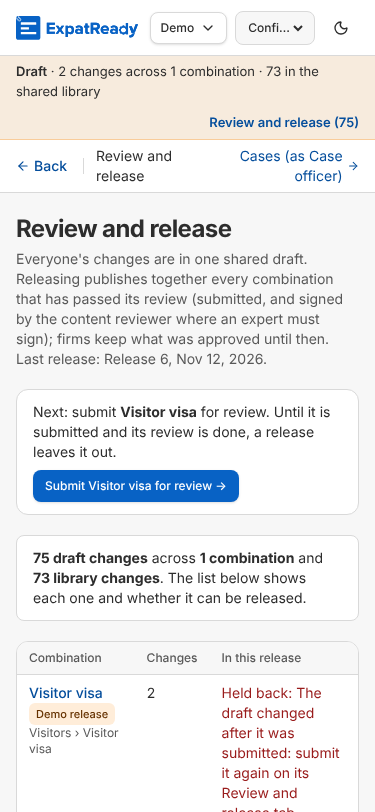
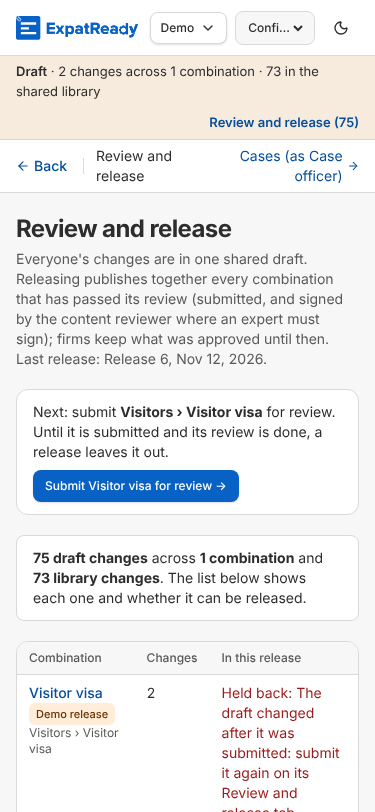
screens: QA-421 review minors — the check also walks "returned to the author" (m1); the step names the combination's full path and counts the rest "to submit" (m2); review.md (Approve at cfd11fb)
Claude-Session: https://claude.ai/code/session_01Ln6TiPiLf8JYTBgL1T2ZBd

Changed region(s): [[0.088, 0.4926, 0.88, 0.585]]

diff --git a/ai-workers/problem-1-pathway-setup-and-form-filling/prototype/studio/web/src/pages/release.tsx b/ai-workers/problem-1-pathway-setup-and-form-filling/prototype/studio/web/src/pages/release.tsx
@@ -60,7 +60,7 @@ export function ReleasePage() {
         <>
           {toSubmit.length ? (
             <div data-next-step="submit" className="flex flex-wrap items-center justify-between gap-x-4 gap-y-2 rounded-xl border border-border bg-surface-raised px-4 py-3 text-sm">
-              <p className="min-w-0">Next: submit <b>{toSubmit[0].label}</b> for review{toSubmit.length > 1 ? <> (and {toSubmit.length - 1} more not submitted)</> : null}. Until it is submitted and its review is done, a release leaves it out.</p>
+              <p className="min-w-0">Next: submit <b>{(toSubmit[0].path ?? [toSubmit[0].label]).join(" › ")}</b> for review{toSubmit.length > 1 ? <> (and {toSubmit.length - 1} more to submit)</> : null}. Until it is submitted and its review is done, a release leaves it out.</p>
               <Button asChild size="sm"><Link to={`/c/${toSubmit[0].combinationId}/review`}>Submit {toSubmit[0].label} for review →</Link></Button>
             </div>
           ) : null}

diff --git a/ai-workers/problem-1-pathway-setup-and-form-filling/product/screens/QA-421-release-submit-first/review.md b/ai-workers/problem-1-pathway-setup-and-form-filling/product/screens/QA-421-release-submit-first/review.md
@@ -1,0 +1,92 @@
+# QA-421 review: Review and release, the author's Submit comes first
+
+**Reviewer:** an independent reviewer session that did not build this row. **PR:** #1644 (draft), **commit `cfd11fb87`** on `claude/youthful-carson-0xcrp3`. **Date:** 12 Nov 2026.
+**Row:** QA-421 (A25 UX friction sweep Major, P-498; style P-473). Report: `qa/reports/2026-11-12-ux-friction-sweep.md` §1, §3 (on PR #1637's branch, `24f00c207`).
+**Diff:** `web/src/pages/release.tsx` (+21/-5), new `tests/check_qa421_release_submit_first_browser.cjs`, `tests/check_bk4b_handoffs_browser.cjs` (its opening step and the "nothing ready" loop), and 4 screenshots. Nothing outside the release page and its checks.
+**How I checked:** my own isolated copy `screens_qa421rv` on **:4476**, started and stopped in the same command each time (3 runs, fresh database each). I never used :4400 or :4473. Live AI was off: US$0, and I pressed no priced button. I wrote two walk scripts of my own in the session scratchpad (Playwright and axe, 1440, 1024, 512 (1024 at 200 %), and 375 px, as `user-A`, `user-C` and `user-B`).
+
+## Verdict: Approve (no open Blocker or Major). Journey score 9 / 10 (pass).
+
+## What the row asks, and what I saw
+* **Bug fixed.** On the configured checkpoint with one unsubmitted change on the Visitor visa, the author (`user-A`) now sees "Next: submit **Visitor visa** for review. Until it is submitted and its review is done, a release leaves it out." and a filled **"Submit Visitor visa for review →"** link to `/c/<id>/review`. There is no "Hand to the Approver" (shot `1-author-not-submitted-1440.png`). Pressing Enter on the link opens that combination's Review and release tab, and its "Submit for review" works. Back on /release, the Submit step is gone and the hand-off to the Approver (`data-handoff-to="user-B"`) is back (shot 3).
+* **Edge cases I walked:**
+  - **Two unsubmitted (Visitor visa, Outside Canada):** the step names the first and adds "(and 1 more not submitted)". After the first is submitted through the step, the step moves to "Submit Outside Canada for review →". The hand-off stays hidden until both are submitted.
+  - **Returned to the author** (the Content reviewer returned it through the UI with a note): why = "Returned to the author: …submit it again…". The Submit step shows, and the tab's "Submit for review" is enabled.
+  - **Changed after it was submitted:** the Submit step shows again (the builder's step 4, 375 px).
+  - **Author with nothing pending** (as loaded, and after both were submitted): no step; the hand-off shows.
+  - **Content reviewer (`user-C`, no author duty):** no Submit step; the hand-off names the Approver.
+  - **Approver (`user-B`):** no step, no hand-off. "Release 73 library changes as Release 7" is the one filled button, at 1440 and at 375 px.
+  - **Nothing ready to release:** BK-4b's loop now asserts the author's Submit step and the reviewer's absence of it (45/45).
+  - **Row held back for a draft problem** (fixture in my own copy's database, as `check_b1_release_unmapped.ts` does: IMM 5475's field map removed, then the form added): why = "No form fields mapped yet…". **No Submit step, which is correct:** the server refuses Submit while the draft has errors (`studio.ts:1056-1057`), and the gate's words are not on that row. See m3 for the hand-off shown in that state.
+* **One filled button (P-473), measured:** exactly one enabled `bg-primary` control in every state above (the Submit link for the author, Release for the Approver, none for the Content reviewer). For a person without the approve duty, the disabled Release button is now `secondary`.
+* **axe (WCAG 2.2 A/AA) on `main`:** 0 violations in all 11 states. **No sideways scroll** at 375, 512 (1024 at 200 %), 1024 or 1440 px. The keyboard reaches the Submit link after the shell's 19 stops (it is the first stop in `main`); it shows `:focus-visible`, and Enter follows it. **No page or console error.** /release fully loaded in about 1.0 s, including the network going idle.
+* **Builder's results reproduced:** `check_qa421` passed 16/16, twice. `check_bk4b_handoffs_browser` passed 45/45. I did not re-run the check on main: step 1 needs `[data-next-step="submit"]`, which main does not render, so it must fail there, as the builder reports. **Removing a rule fails a check:**
+  - dropping `!toSubmit.length` from the hand-off condition fails step 1 "no hand-off";
+  - dropping `canSubmit` fails step 5;
+  - dropping the step fails steps 1 and 4.
+* **Graph (P-86):** `graph.mjs --check` reports G1 0 and G2 0. `/release` is visited by `check_qa421` (C5.1, C10.1). No new route and no new module. The G3 and G6 items it lists are unrelated to this page.
+
+## The design choice: matching the gate's words instead of a typed field
+**Acceptable for this row, with one guard added (m1).** The words are the server's single source: three sentences of `gateOf` (`api/src/studio.ts:96-97`), passed through unchanged by `draft()` (`programs.ts:438`). No other hold reason contains "on its Review and release tab" (grep of `api/src`), so there is no false positive today. The UI cannot offer something the server would refuse: the server checks `need(actor,"author")` at Submit, and `canSubmit` mirrors it. Staying out of `api/` follows the lane rule.
+
+The risk is silent: if someone rewords a gate sentence, the step disappears for that state. Today only two of the three sentences are pinned by a check: "Not submitted…" (setup regex) and "changed after it was submitted" (step 4). The "Returned to the author" sentence is pinned by no test. **The durable fix belongs to whoever next edits `draft()`:** a typed reason on each row, for example `needs: "submit"`, which the page reads instead of the words. That is a follow-up row, not a change for this PR.
+
+## Issues (none Blocker or Major)
+| # | Sev. | Where | Finding | Fix |
+|---|---|---|---|---|
+| m1 | Minor · Should | `tests/check_qa421_release_submit_first_browser.cjs` | The returned-to-author path works (I walked it), but no check covers it. Its sentence is the one `gateOf` sentence the regex at `release.tsx:23` depends on that no test pins. | Add a step: return the submission as `user-C` (UI or `/signoff` with `action:"returned"`), then assert the Submit step and no hand-off. |
+| m2 | Minor · Should | `release.tsx:63-64` | The step names a combination by its leaf label only: "Submit **Outside Canada** for review →". More than one combination ends in "Outside Canada", so the button text is ambiguous (D10, non-ambiguity). Also, "(and N more not submitted)" counts returned and changed-after-submit rows as "not submitted". | Use the last two path parts when the leaf is not unique, for example "Study permit › Outside Canada". Say "(and N more waiting for your Submit)". |
+| m3 | Minor · follow-up (outside the row's Expected) | `release.tsx:100` | The author is still offered "Hand to the Approver →" in two states: own change held for a draft problem (shot `p1`), or own change submitted but waiting for the Content reviewer's SME sign-off (state E4). In both, the Approver could release the 73 library changes without the author's change, which is the harm QA-421 describes. The row's Expected limits the fix to a needed Submit, and the builder's step 3 asserts the hand-off returns after Submit. So this is not a finding against this PR. | The tech lead decides whether to add a follow-up row, for example "Next: fix <problem> on <combination>" and "Next: the Content reviewer signs" ahead of the Approver hand-off. |
+| m4 | Note | working tree | The checks write their screenshots into tracked folders. While I worked, another process on this checkout (a suite run; I saw an isolated copy on :15438) rewrote 127 tracked evidence files in other screens' folders. I reverted nothing, because that run is still active. | The builder commits only its own screenshots. |
+
+## D1–D20 (1–5; this row only)
+| D | Score | Evidence |
+|---|---|---|
+| D1 Requirement fit | 5 | The row's Expected is met in each state named in it (above). |
+| D2 Data integrity | 5 | The page writes nothing new. Submit stays the tab's server call (`need author`). |
+| D3–D4, D6, D7, D18 | N/A | No content, rules, freshness, AI or sources are touched. |
+| D5 Stability and recovery | 5 | Reload, Back and the return cycle all redraw from `/draft`. Changed-after-submit brings the step back. |
+| D8 Orientation | 4 | The page path is unchanged. The step's name is ambiguous for a leaf like "Outside Canada" (m2). |
+| D9 Flow | 5 | One next step per person. The hand-off waits until the Submit is done. |
+| D10 Language | 4 | Plain words. See m2 for the leaf label and the "not submitted" count. |
+| D11 Feedback and state | 5 | Each row still says why it is held back. The step goes away once the change is submitted. |
+| D12 Visual quality | 5 | Same panel as HandOff (`rounded-xl border bg-surface-raised`). One filled button. |
+| D13 Accessibility | 5 | axe 0. Fits 375 to 1440 px and 200 % zoom. It is a real link, reached by keyboard, Enter works, focus is visible. |
+| D14 Team look | 5 | Shared `Button` and `Link`. No new tokens. |
+| D15 Speed | 5 | About 1.0 s to idle. Uses the existing `/draft`; no per-row request. |
+| D16 Testability | 4 | The new check fails without the rule. The returned path is not checked (m1). |
+| D17, D20 | simulated only | No intended user walked it. |
+| D19 Closure | 5 | Release page → Submit → review tab → back to the hand-off, all in the UI. |
+
+**BIC-01–BIC-20 (EXPERIENCE §6): N/A.** This is a Studio configuration page. §6 covers case-side screens, and no concept for this page opts in.
+
+**[M] lines touched:** EXPERIENCE §1 "one primary action per area" **met**. §2.5 "one next action" **met** for the row's state (m3 is outside it). §2.12 accessible **met**. §4 states (empty, nothing ready, normal, long) **met**. §5 copy **met** (no IDs or decision numbers on the page). STANDARDS §9 "no request per row" **met**.
+
+## Journey test (reviewer, the one score for this check)
+**Journeys:**
+- J1 (main path) the author releases their own change → Submit first;
+- J2 two unsubmitted;
+- J3 returned → submit again;
+- J4 changed after submit;
+- J5 wrong role (Content reviewer: no Submit);
+- J6 Approver (one filled Release);
+- J7 a row held for a problem;
+- J8 the step across the screen boundary (step → review tab → Submit → back to /release).
+
+| Criterion | Score | Evidence |
+|---|---|---|
+| Task completed | 1 | J1, J2, J3 and J8 were completed through the UI only. |
+| Next step obvious | ½ | Obvious in every Submit state. In J7 and E4 the author still gets "Hand to the Approver" (m3). |
+| Plain words | ½ | "Submit Outside Canada for review" is ambiguous. Returned rows are counted as "not submitted" (m2). |
+| Feedback and state | 1 | Per-row reasons. The step appears and disappears with the state. |
+| Correct data | 1 | `/draft` reasons before and after each Submit and Return were exactly as expected. No extra writes. |
+| Error recovery | 1 | After Return, and after a change following Submit, the step comes back. Reload is safe. |
+| Accessibility and screen sizes | 1 | axe 0. No sideways scroll at 375, 512, 1024 or 1440 px. Keyboard path works. |
+| Speed | 1 | About 1.0 s to idle. |
+| Visual quality | 1 | One filled button in every state. Matches the hand-off panel. |
+| Trust and sources | 1 | "Demo release" and "Simulated" labels are intact. No AI on this page. |
+| **Total** | **9 / 10** | Pass (8 or more, no criterion at 0). To raise it: m2 (plain words), then a follow-up row for m3 (next step obvious). |
+
+**Not checked:** a real screen reader; an intended user's unaided walk (D17, D20 stay with the founder); two tabs submitting at once (the Submit is the existing tab's, unchanged here); the check run on main (inferred from the code, as above). At the caller's instruction, the journey test is in this file rather than a separate `journey-test-*.md`.
+
+Verdict: Approve. Blockers: none. Majors: none. Minors: m1 (add a returned-to-author step to `check_qa421`), m2 (an unambiguous combination name in the step; "waiting for your Submit"), m3 (a follow-up row for the tech lead, outside this row), m4 (note only).
